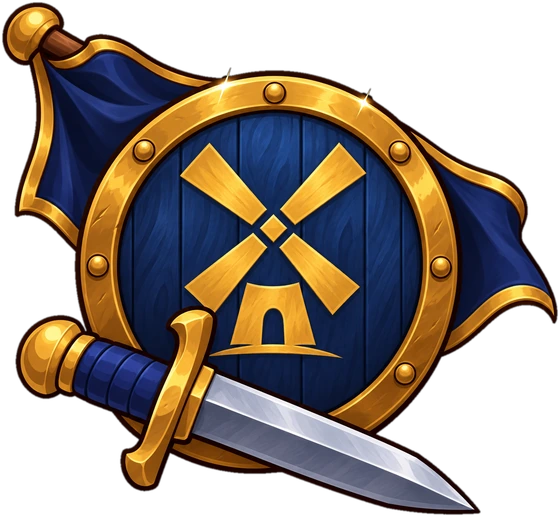
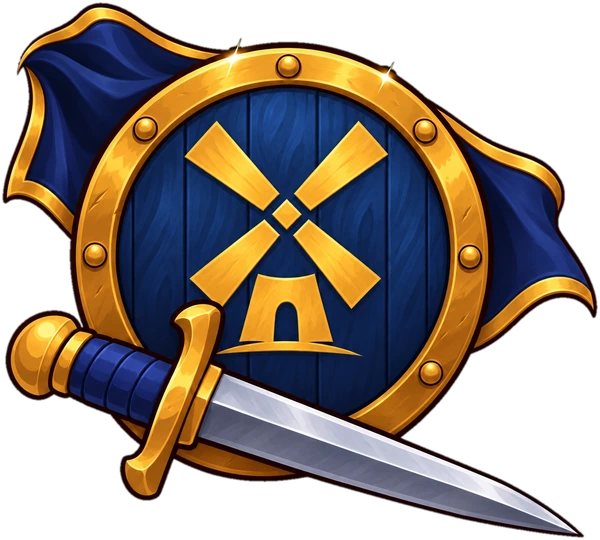
art: 승리 · 패배 문장 교체 — 깃대 없이 천만 · 검 길게
Claude-Session: https://claude.ai/code/session_01UsiBrNXA9CeyuCK3H3wzSA

diff --git a/index.html b/index.html
@@ -5343,7 +5343,7 @@ html.lmB body #app.bl #orbs .orb.bump{animation:none}html.lmB body #app.bl #orbs
 #lmDefeat .dfCracks{position:absolute;inset:0;background:url(assets/ui/defeat/cracks.webp) center/100% 100% no-repeat;opacity:0;scale:1.08;transition:opacity .35s ease,scale .35s cubic-bezier(.2,1.4,.4,1)}
 #lmDefeat.ph2 .dfVig{opacity:1}#lmDefeat.ph3 .dfCracks{opacity:.9;scale:1}
 #lmDefeat .dfBox{position:absolute;left:50%;top:47%;translate:-50% -50%;display:flex;flex-direction:column;align-items:center;width:min(96vw,980px)}
-#lmDefeat .dfEmb{width:min(42vh,48vw,380px);aspect-ratio:560/528;background:url(assets/ui/defeat/emblem.webp) center/contain no-repeat;opacity:0;filter:drop-shadow(0 10px 18px #000c)}
+#lmDefeat .dfEmb{width:min(42vh,48vw,380px);aspect-ratio:600/549;background:url(assets/ui/defeat/emblem.webp?v=2) center/contain no-repeat;opacity:0;filter:drop-shadow(0 10px 18px #000c)}
 #lmDefeat.ph3 .dfEmb{animation:dfSlam .55s cubic-bezier(.2,1.5,.4,1) forwards}
 @keyframes dfSlam{0%{opacity:0;scale:2.3;rotate:-8deg}55%{opacity:1;scale:.92;rotate:2deg}100%{opacity:1;scale:1;rotate:0deg}}
 #lmDefeat .dfRib{--rh:clamp(58px,11vh,104px);position:relative;margin-top:calc(var(--rh) * -.55);height:var(--rh);max-width:96vw;padding:0 calc(var(--rh) * 1.25);display:flex;align-items:center;justify-content:center;
@@ -5469,7 +5469,7 @@ html.lmB body[data-tbl=sky] #ov:has(.rsB){--rsT:url(assets/ui/lamancha/bg_table_
 #ov:has(.cashFx)>#cfWin{display:block;position:relative;flex:none;z-index:2;pointer-events:none;width:min(430px,86%);height:200px;margin-bottom:-34px;zoom:var(--lmUi,1)}
 #ov:has(.cashFx)>.panel{max-height:calc(var(--lmVh,1vh) * 92 - 180px)!important}
 #cfWin .cwRays{position:absolute;left:50%;top:80px;width:420px;aspect-ratio:1;translate:-50% -50%;clip-path:inset(0 0 124px 0);background:url(assets/ui/lamancha/clear_rays.webp) 0 0/400% 200% no-repeat;opacity:0}
-#cfWin .cwEmb{position:absolute;left:50%;top:0;width:190px;aspect-ratio:560/517;translate:-50% 0;background:url(assets/ui/lamancha/win_emblem.webp) center/contain no-repeat;filter:drop-shadow(0 6px 8px #000b);opacity:0}
+#cfWin .cwEmb{position:absolute;left:50%;top:0;width:190px;aspect-ratio:600/540;translate:-50% 0;background:url(assets/ui/lamancha/win_emblem.webp?v=2) center/contain no-repeat;filter:drop-shadow(0 6px 8px #000b);opacity:0}
 #cfWin .cwRib{position:absolute;left:0;right:0;bottom:0;height:60px;background:url(assets/ui/lamancha/win_ribbon.webp) center/100% 100% no-repeat;display:flex;align-items:center;justify-content:center;filter:drop-shadow(0 4px 5px #000a);opacity:0}
 #cfWin .cwRib b{font:900 24px/1 'Noto Sans KR',system-ui,sans-serif;letter-spacing:.08em;color:#fff4d6;text-shadow:0 2px 0 #0a1433,0 0 10px #f6cf6366;white-space:nowrap;max-width:72%;overflow:hidden;text-overflow:ellipsis}
 #cfWin.go .cwEmb{animation:cwSlam .5s cubic-bezier(.2,1.5,.4,1) .05s forwards}
